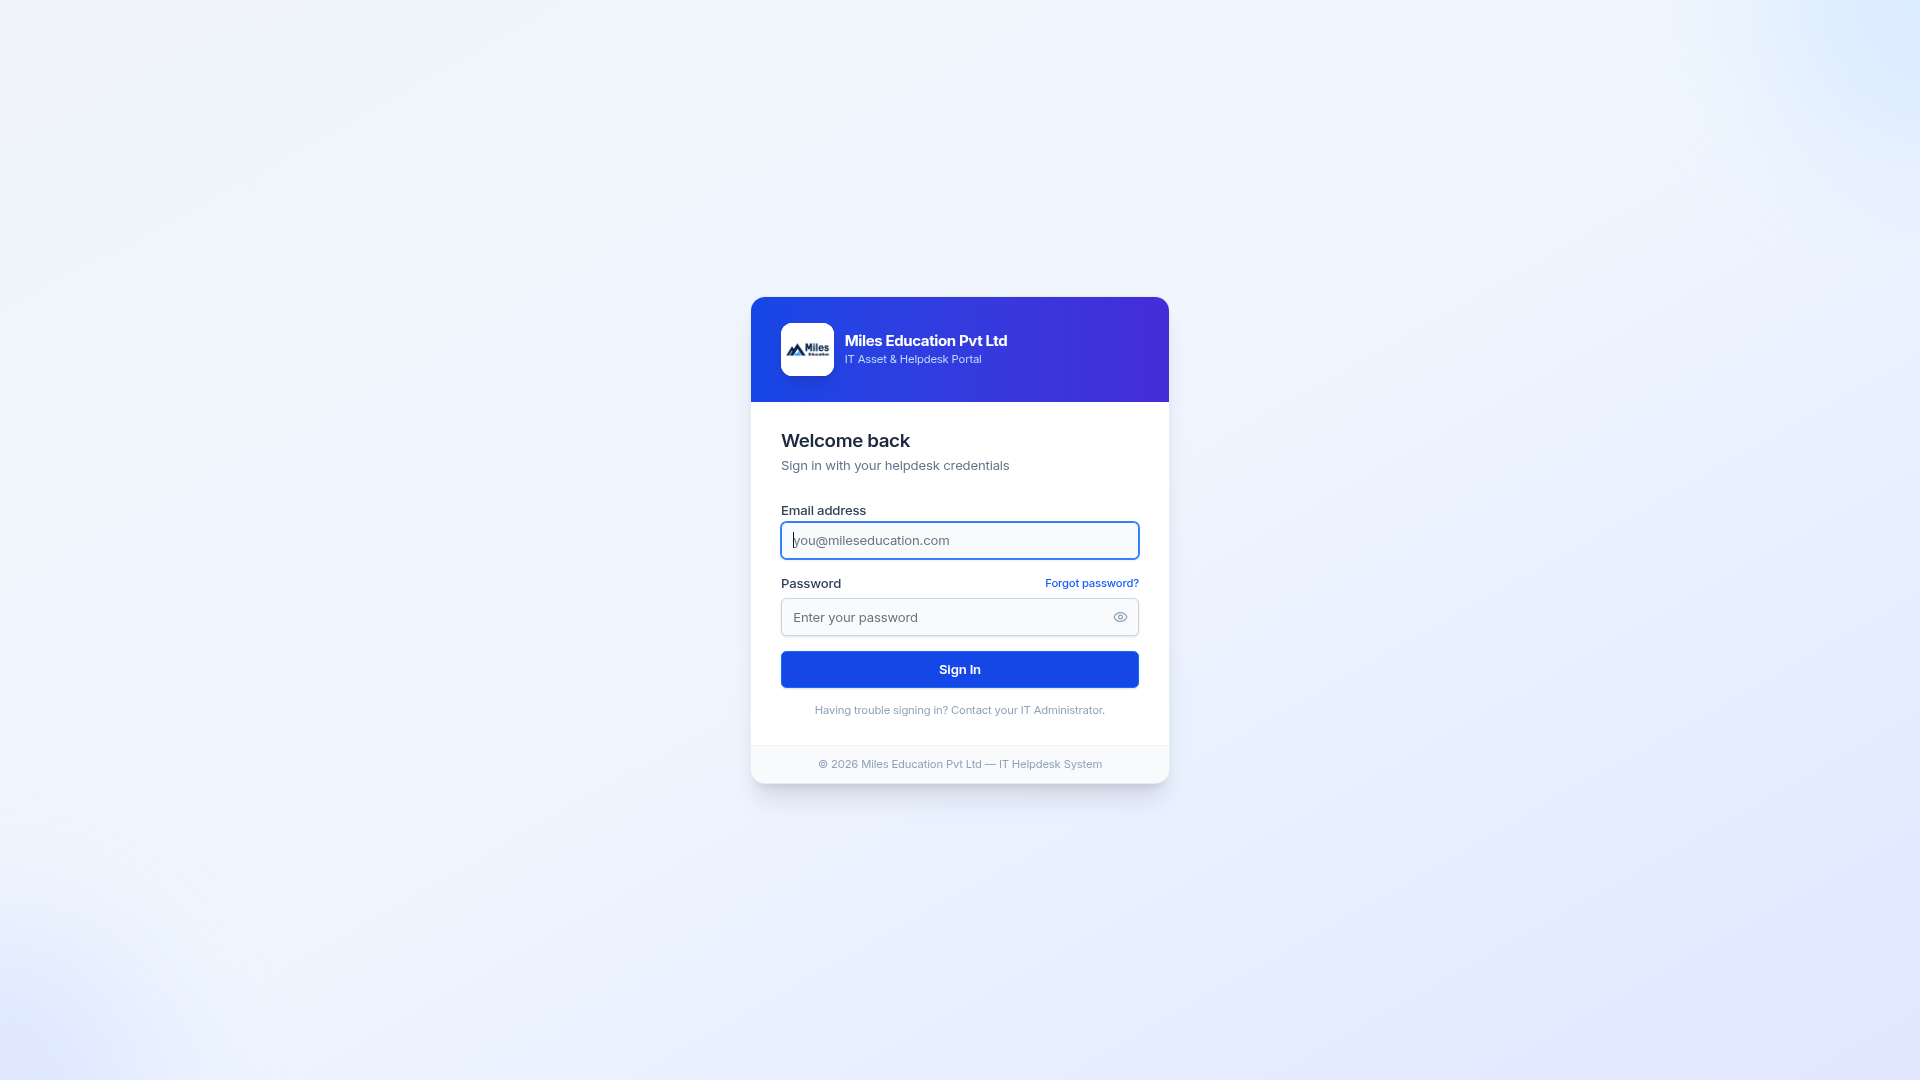
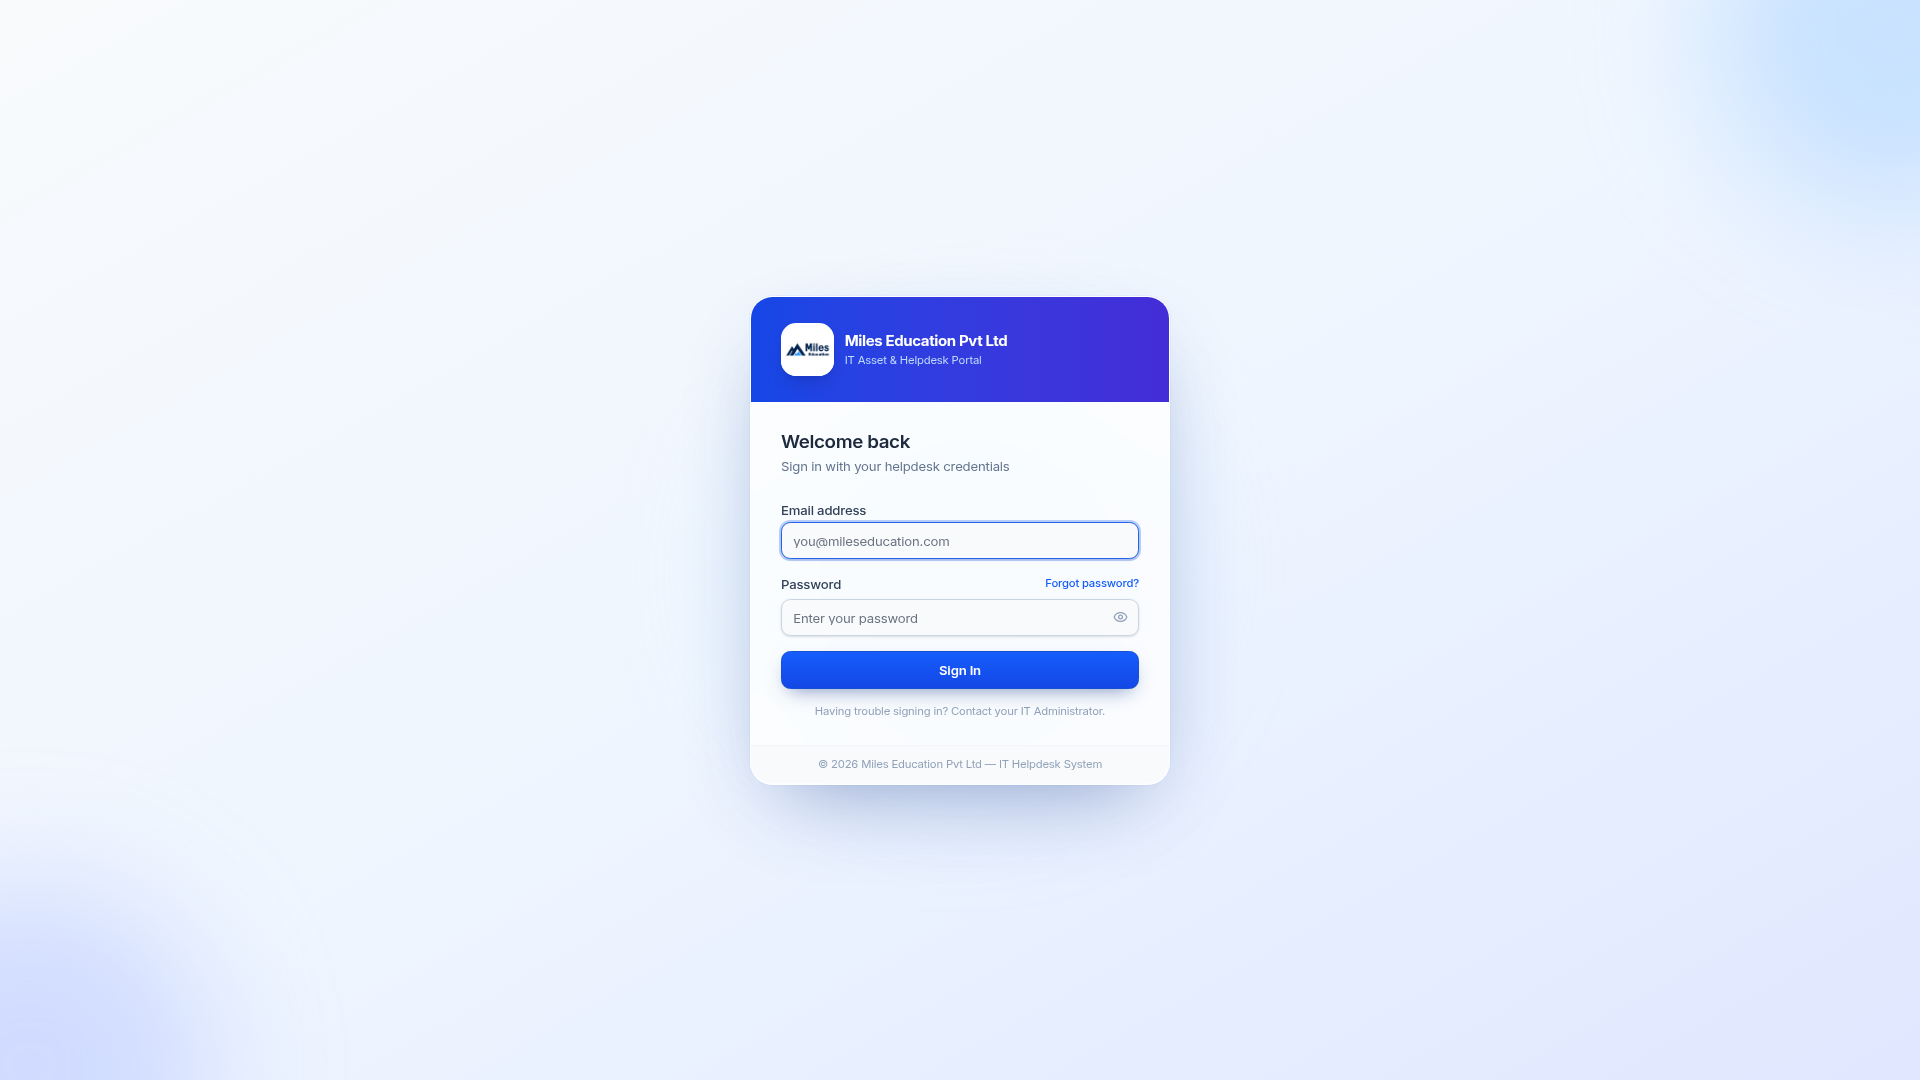
docs: embed app screenshots gallery in README; refresh login screenshot

diff --git a/README.md b/README.md
@@ -491,7 +491,26 @@ Every status transition writes to `audit_logs` via `_log_remote_access_audit()`.
 
 ## 📸 Screenshots
 
-*Screenshots will be added here once production UI is stable.*
+> Live portal: **[it-asset-hub-a7rf.onrender.com](https://it-asset-hub-a7rf.onrender.com)**
+
+<table>
+  <tr>
+    <td width="50%"><strong>Sign In</strong><br/><img src="docs/screenshots/01-login.png" alt="Sign in" /></td>
+    <td width="50%"><strong>Dashboard</strong><br/><img src="docs/screenshots/02-dashboard.png" alt="Dashboard" /></td>
+  </tr>
+  <tr>
+    <td width="50%"><strong>Asset Inventory</strong><br/><img src="docs/screenshots/03-assets-list.png" alt="Asset inventory" /></td>
+    <td width="50%"><strong>Add Asset</strong><br/><img src="docs/screenshots/04-add-asset.png" alt="Add asset" /></td>
+  </tr>
+  <tr>
+    <td width="50%"><strong>Bulk Import</strong><br/><img src="docs/screenshots/05-bulk-import.png" alt="Bulk import" /></td>
+    <td width="50%"><strong>Reports &amp; Analytics</strong><br/><img src="docs/screenshots/06-reports.png" alt="Reports and analytics" /></td>
+  </tr>
+  <tr>
+    <td width="50%"><strong>Helpdesk Tickets</strong><br/><img src="docs/screenshots/07-tickets.png" alt="Helpdesk tickets" /></td>
+    <td width="50%"><strong>Users &amp; Roles</strong><br/><img src="docs/screenshots/08-users.png" alt="Users and roles" /></td>
+  </tr>
+</table>
 
 ---
 
